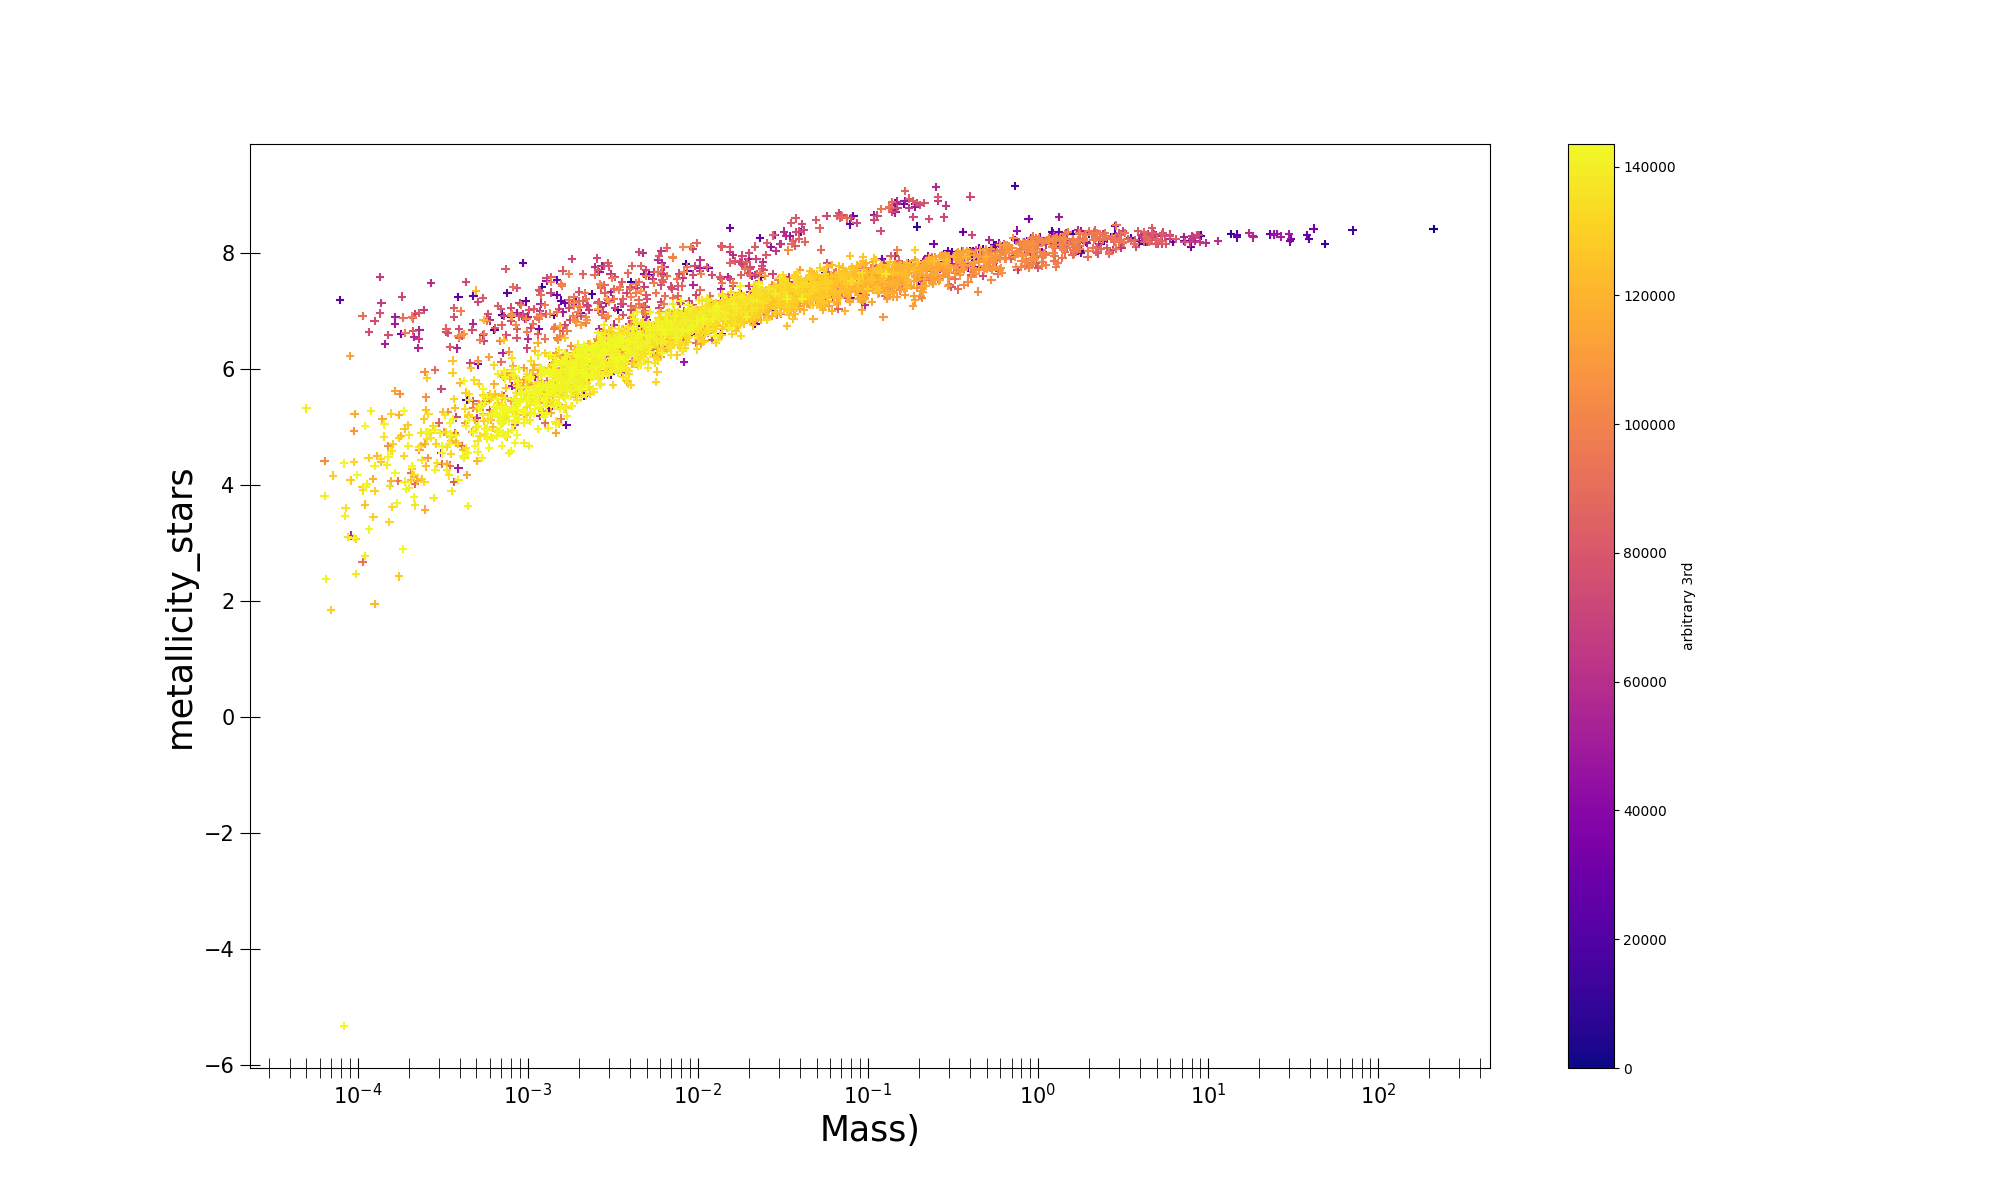
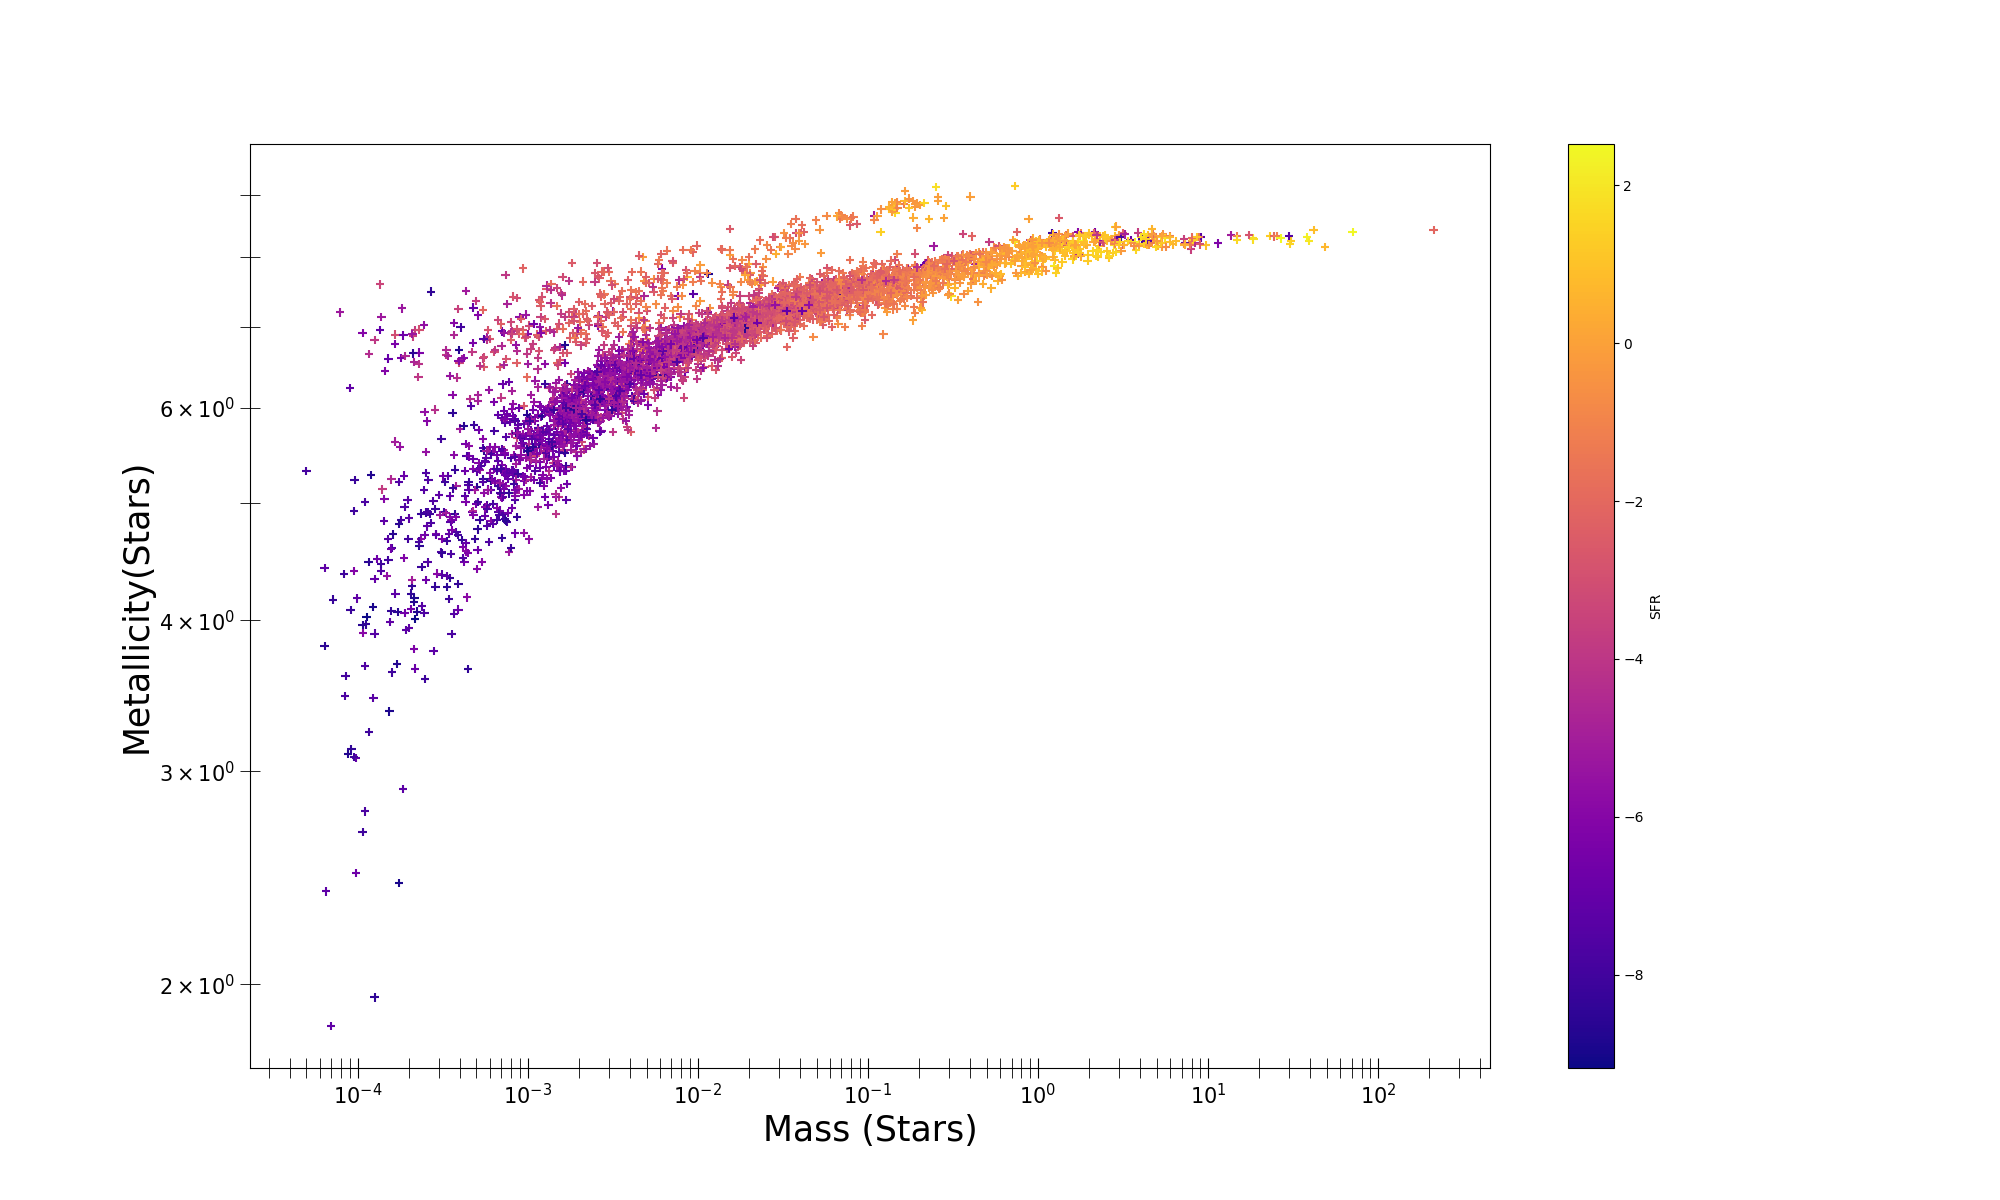
its sunday...

diff --git a/plot.py b/plot.py
@@ -8,22 +8,23 @@ df = pd.read_csv('bigdata2.csv')
 print(df['sfr'])
 
 plt.figure(figsize = (20,12))
-plt.scatter(df['mass_stars'], 12+np.log(df['metallicity_stars']), marker = '+', c = df['id'], cmap = 'plasma')
+plt.scatter(df['mass_stars'], 12+np.log(df['metallicity_stars']), marker = '+', c = np.log(df['sfr']), cmap = 'plasma')
 plt.xscale('log')
-plt.ylabel("metallicity_stars", fontsize = 25)
-plt.xlabel("Mass)", fontsize = 25)
+plt.yscale('log')
+plt.ylabel("Metallicity(Stars)", fontsize = 25)
+plt.xlabel("Mass (Stars)", fontsize = 25)
 plt.tick_params(axis = 'both', which = 'both',direction = 'inout', length = 15, labelsize = 15)
-plt.colorbar(label='arbitrary 3rd')
+plt.colorbar(label='SFR')
 plt.savefig('sfr1.png')
 plt.show()
 plt.close()
 
 
 plt.figure(figsize = (20,12))
-plt.scatter(df['mass_gas'], 12+np.log(df['m_gas_sfr_weighted']), marker = '+',c = df['id'], cmap = 'hsv')
+plt.scatter(df['mass_gas'], 12+np.log(df['m_gas_sfr_weighted']), marker = '+',c = np.log(df['sfr']), cmap = 'hsv')
 plt.xscale('log')
-plt.ylabel("metallicity_stars", fontsize = 25)
-plt.xlabel("Mass)", fontsize = 25)
+plt.ylabel("Metallicity(Gas)", fontsize = 25)
+plt.xlabel("Mass(Gas))", fontsize = 25)
 plt.tick_params(axis = 'both', which = 'both',direction = 'inout', length = 15, labelsize = 15)
 plt.colorbar(label='arbitrary 3rd')
 plt.savefig('sfr2.png')
